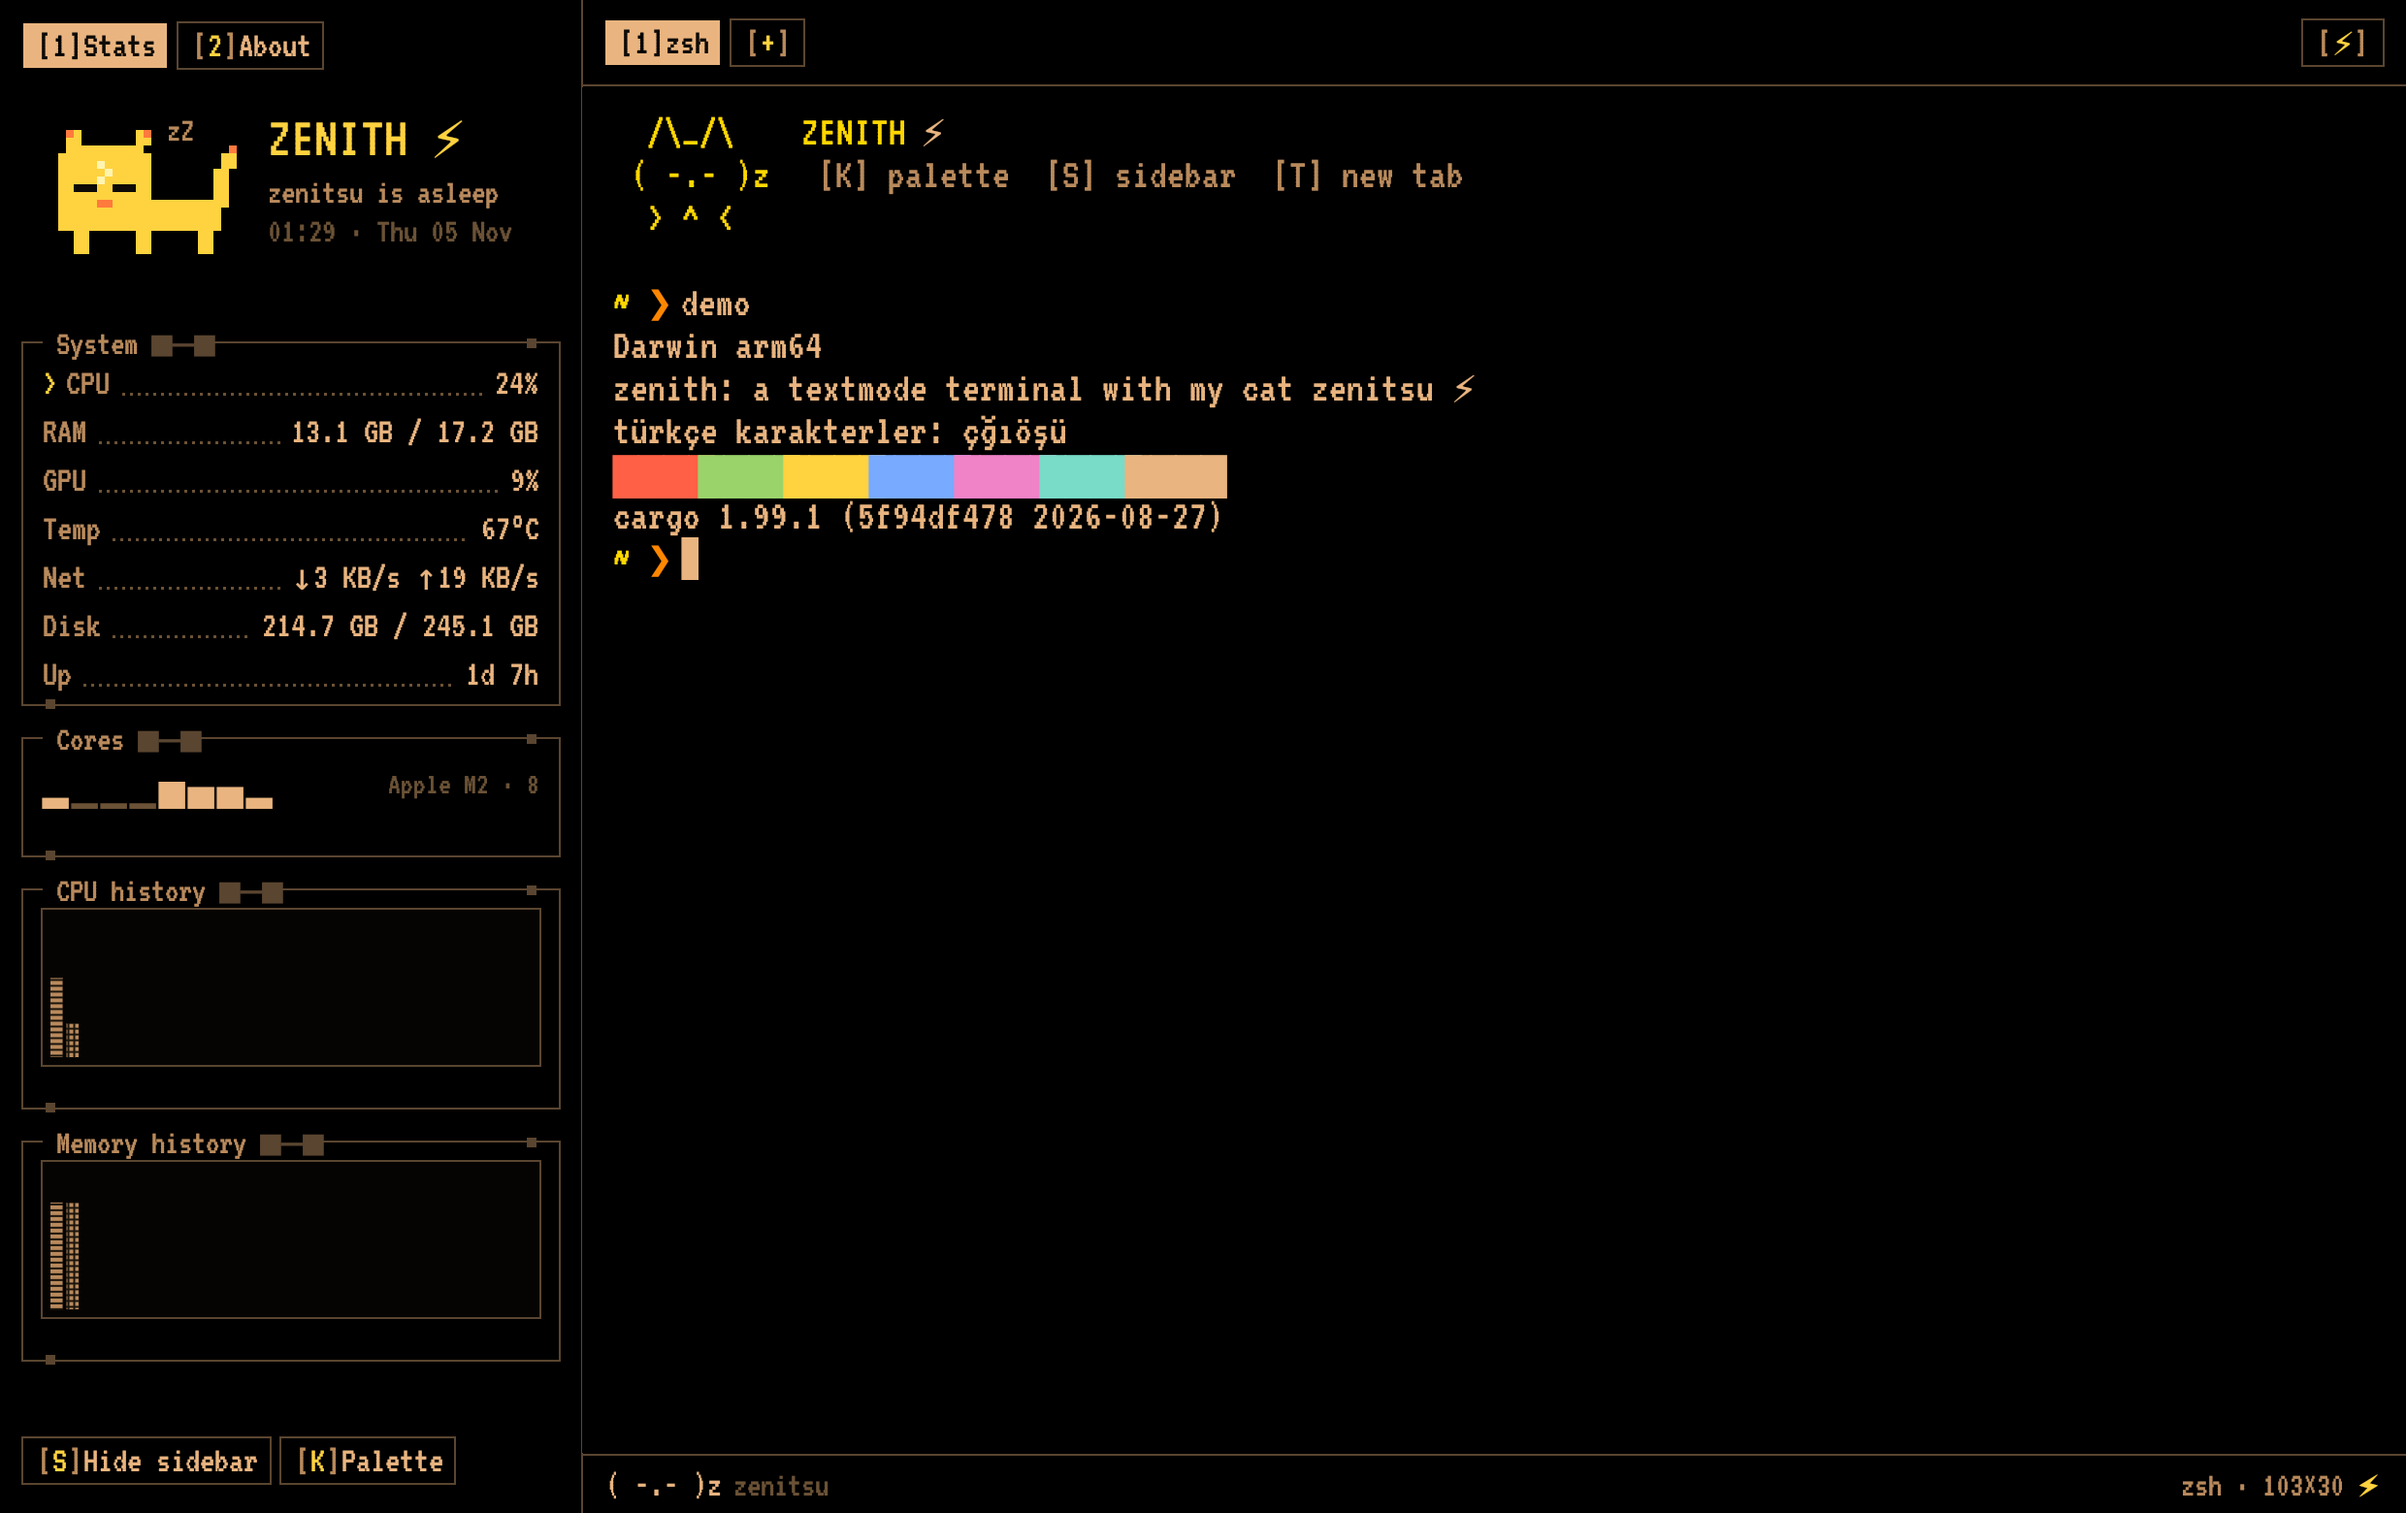
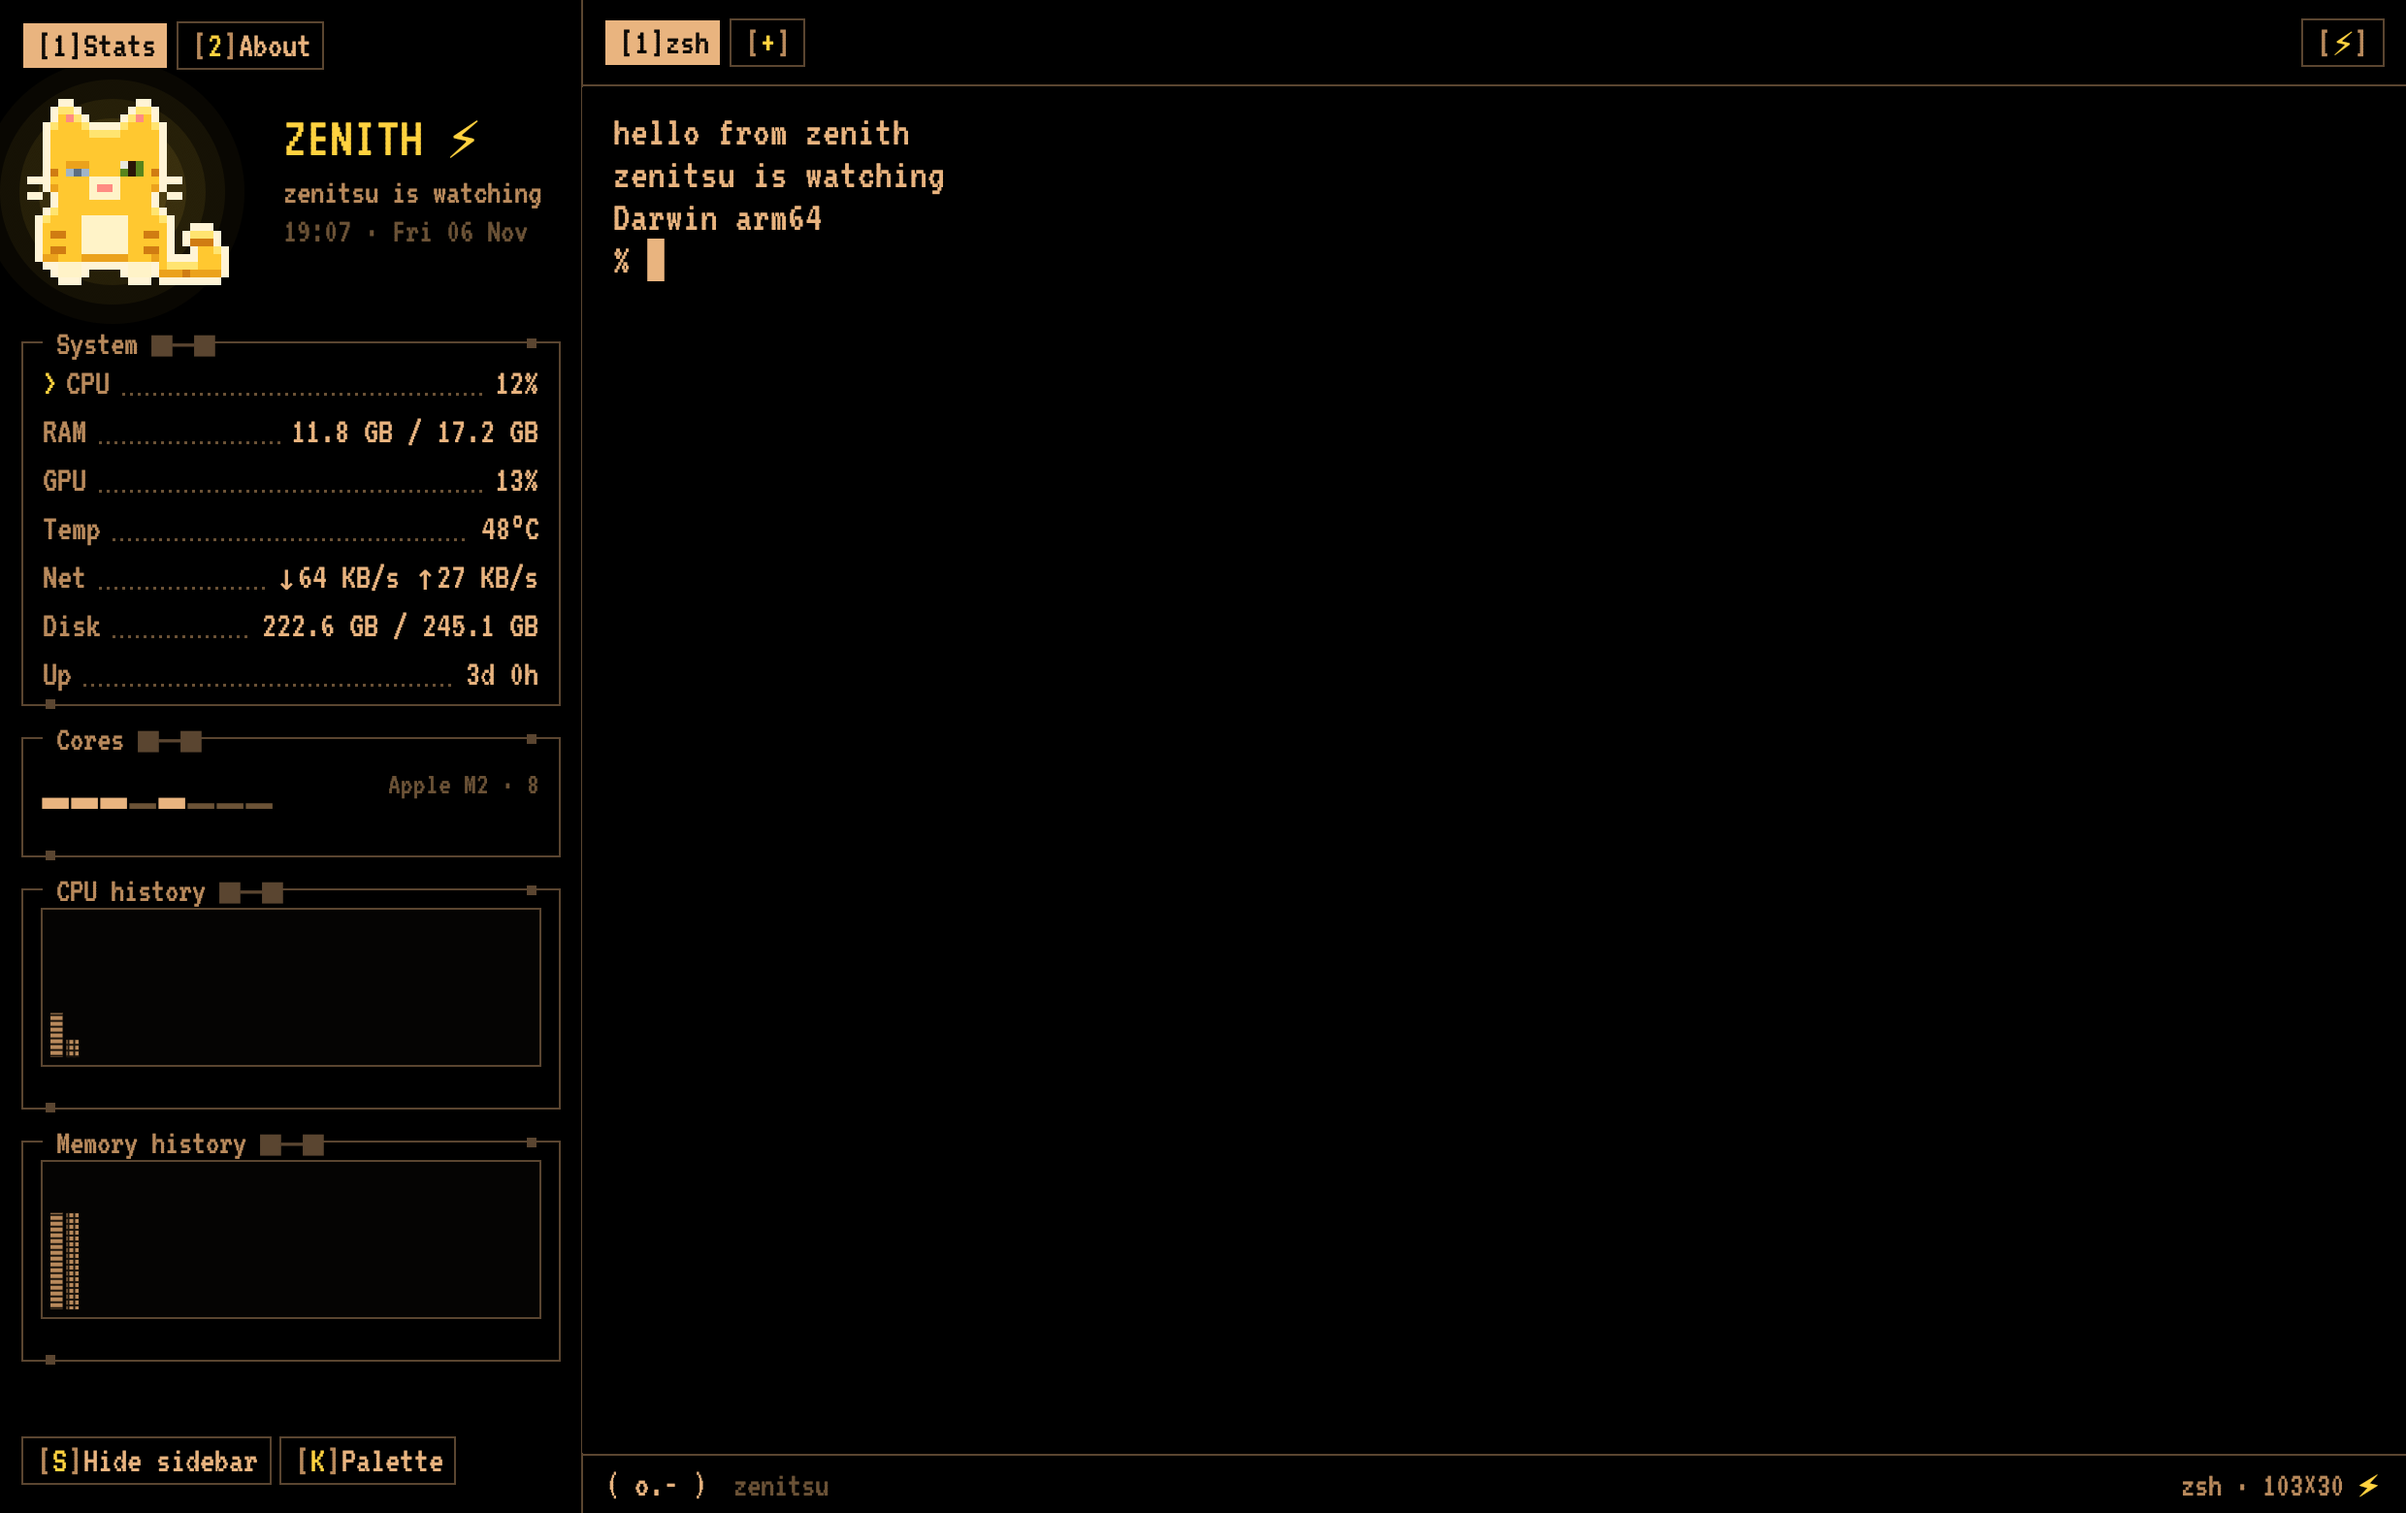
docs(readme): update screenshot and describe the new Zenitsu

diff --git a/README.md b/README.md
@@ -6,7 +6,7 @@ A textmode terminal with my cat Zenitsu, written in Rust.
 
 Zenith is a real terminal emulator (it runs your shell in a PTY and parses output with the same engine as Alacritty) wrapped in a retro textmode interface: black background, sand-coloured pixel text, one-pixel frames with little square knobs, bracketed hotkeys and dotted leader rows.
 
-On the left lives a live system panel. On top of it sits a pixel-art Zenitsu who dozes with a little `zZz` while the machine is idle, wakes up when the CPU gets busy, and flinches with a ⚡ when lightning strikes (click the cat or the `[⚡]` button).
+On the left lives a live system panel. On top of it sits a pixel-art Zenitsu, drawn like the real cat: a yellow tabby with no eyebrows, one squinted eye clouded by a cataract, and a short tail stump (she lost the tip as a kitten). She wags what is left of her tail faster when the CPU gets busy, and flinches with a ⚡ when lightning strikes (click the cat or the `[⚡]` button).
 
 ## Features
 
@@ -18,7 +18,7 @@ On the left lives a live system panel. On top of it sits a pixel-art Zenitsu who
 - **Links:** `⌘`-click an `http(s)` URL in the output to open it.
 - **System sidebar:** CPU, RAM, GPU, temperature, network, disk, uptime, per-core bars and dithered history "skylines". `⌘S` hides it.
 - **Command palette:** `⌘K`.
-- **Pixel Zenitsu:** sleeping, awake and startled states.
+- **Pixel Zenitsu:** always watching, tail speed follows CPU load, startled by lightning.
 
 ## Keys
 
